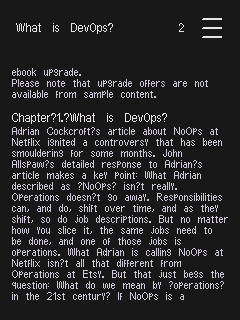
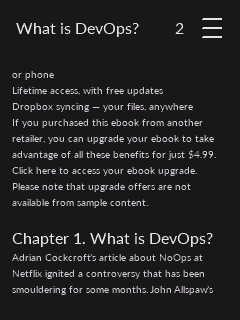
use TinyFonts

diff --git a/src/TinyMobi/MobiReaderApp.h b/src/TinyMobi/MobiReaderApp.h
@@ -13,6 +13,11 @@
 #include <string>
 #include <vector>
 
+#include "TinyFonts/Fonts/Lato10.h"
+#include "TinyFonts/Fonts/Lato16.h"
+#include "TinyFonts/Fonts/Lato32.h"
+#include "TinyFonts/Fonts/Lato8.h"
+#include "TinyFonts/Integrations/TinyGPU.h"
 #include "TinyMaterialDesign.h"
 #include "TinyMobi.h"
 #include "TinyMobi/MobiReaderCover.h"
@@ -94,6 +99,11 @@ class MobiReaderApp {
   /// \brief Builds the GUI. If the document is open, its first page is shown;
   /// otherwise the open dialog is shown.
   void begin() {
+    // the themes use the TinyFonts fonts (the themes must be set before the app starts)
+    const tinymd::Typography<RGB_T> fonts{&labelFont_, &bodyFont_, &titleFont_, &headlineFont_};
+    darkTheme_.typography = fonts;
+    lightTheme_.typography = fonts;
+    app_.screen().setTheme(dark_ ? darkTheme_ : lightTheme_);  // the screen has its own copy
     app_.begin();
     tinymd::Screen<RGB_T>& screen = app_.screen();
     text_.setRole(tinymd::TypographyRole::kBody);
@@ -917,6 +927,11 @@ class MobiReaderApp {
 
   Doc& doc_;
   // the themes must outlive the app: the screen keeps a pointer to them
+  // the text is drawn with TinyFonts (Latin-1 characters, unlike the bitmap fonts)
+  tinyfonts::TinyGPUFont<RGB_T> labelFont_{Lato8};
+  tinyfonts::TinyGPUFont<RGB_T> bodyFont_{Lato10};
+  tinyfonts::TinyGPUFont<RGB_T> titleFont_{Lato16};
+  tinyfonts::TinyGPUFont<RGB_T> headlineFont_{Lato32};
   tinymd::MaterialTheme<RGB_T> darkTheme_ = tinymd::defaultDarkTheme<RGB_T>();
   tinymd::MaterialTheme<RGB_T> lightTheme_ = tinymd::defaultTheme<RGB_T>();
   tinymd::App<RGB_T> app_;

diff --git a/docs/gui.md b/docs/gui.md
@@ -18,9 +18,28 @@
   "Bookmarks", "Settings", "About" (author, publisher, language and the page
   shown) and, if `onClose` is set, "Close"
 
-The header is optional. It needs TinyMaterialDesign, TinyGPU and
-[TinyJPEG](https://github.com/pschatzmann/TinyJPEG) in addition to TinyMobi.
+The header is optional. It needs TinyMaterialDesign, TinyGPU,
+[TinyJPEG](https://github.com/pschatzmann/TinyJPEG) and
+[TinyFonts](https://github.com/pschatzmann/TinyFonts) in addition to TinyMobi.
 `TinyMobi.h` does not depend on them.
+
+## Fonts
+
+The text is drawn with [TinyFonts](https://github.com/pschatzmann/TinyFonts)
+(the Lato fonts, generated from Lato Regular with the ASCII, Latin-1, euro and
+punctuation sets, so the characters "ü", "ß", bullets, curly quotes and dashes
+are shown):
+
+| Role | Font | Used for |
+|---|---|---|
+| body | Lato10 | the text of the pages |
+| title | Lato16 | the title bar, headings and the title of dialogs |
+| label | Lato8 | buttons and captions |
+| headline | Lato32 | large standalone headings (ASCII only, not used by the reader) |
+
+The fonts are set on the two themes (dark and light) when `begin()` runs.
+Characters outside these sets (for example Greek or Cyrillic letters, or
+symbols) are not in the fonts and are shown as "?".
 
 The JPEG cover is shown full screen, before the first page of text. It is
 scaled to the largest size that fits the screen with its proportions, and
@@ -145,8 +164,10 @@ pages are kept, which is enough for books of several hundred pages.
 
 - The pages are not scrolled. A single word that is taller than the text area is
   clipped.
-- The TinyMaterialDesign bitmap fonts only cover ASCII. Other characters are
-  shown as `?`.
+- The Lato fonts cover ASCII, Latin-1, the euro sign and the general punctuation
+  (bullets, quotes, dashes). Other characters, for example Greek or Cyrillic
+  letters or symbols, are shown as `?`. Other TinyFonts fonts can be used by
+  changing the four font objects in `MobiReaderApp.h`.
 - The book title in the title bar is shortened to the width that is left before
   the page number (or the menu icon).
 - Only JPEG covers are shown. The cover bytes are held in a `std::vector` and

diff --git a/README.md b/README.md
@@ -30,7 +30,7 @@ from memory or from an SD card, one record at a time, into a fixed buffer.
 - Raw access to any PalmDB record with `readRecord()` and `recordLength()`.
   `imageType()` recognizes JPEG, PNG, GIF and BMP data, so covers can be saved.
 - Image references in the text (`<img recindex>` and `kindle:embed`).
-- Optional reader GUI for TinyMaterialDesign (`src/TinyMobi/MobiReaderApp.h`):
+- Optional reader GUI for TinyMaterialDesign and TinyFonts (`src/TinyMobi/MobiReaderApp.h`):
   page-by-page reading with swipe navigation, tappable links (the table of
   contents is part of the text), headings, a title bar with the page number, a
   system menu with a settings screen (dark mode, navigation buttons, page number),
